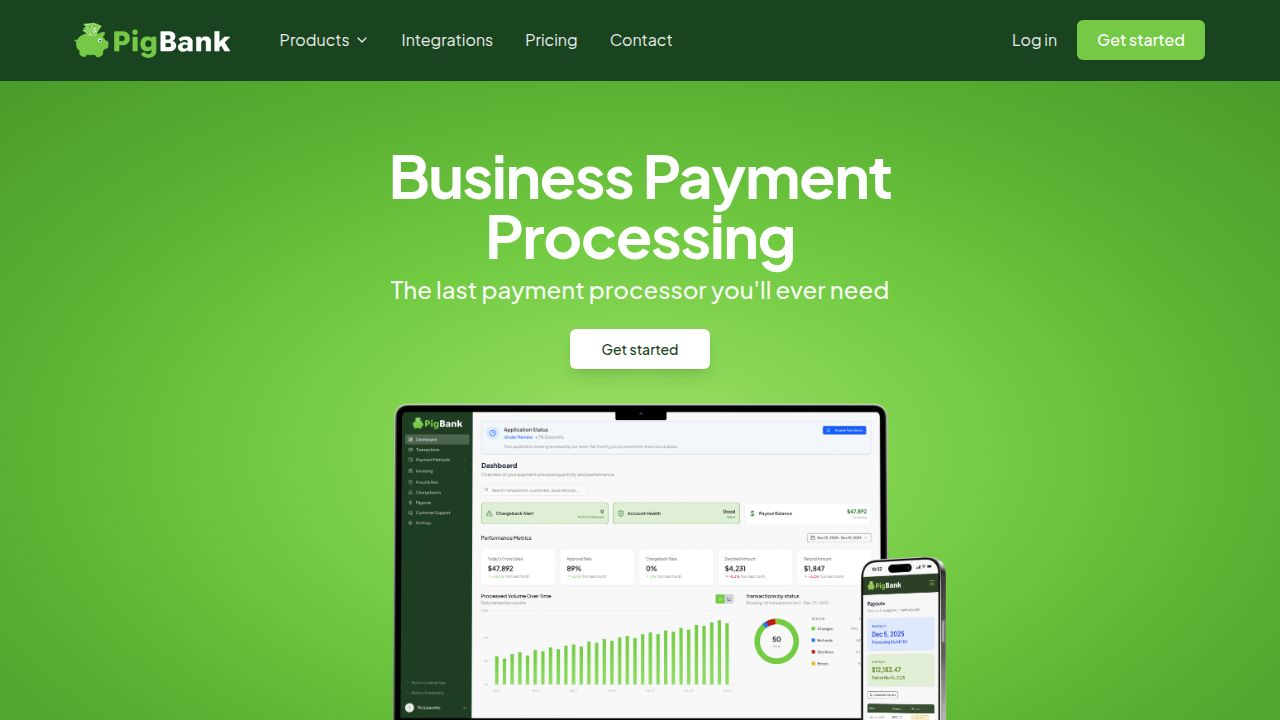
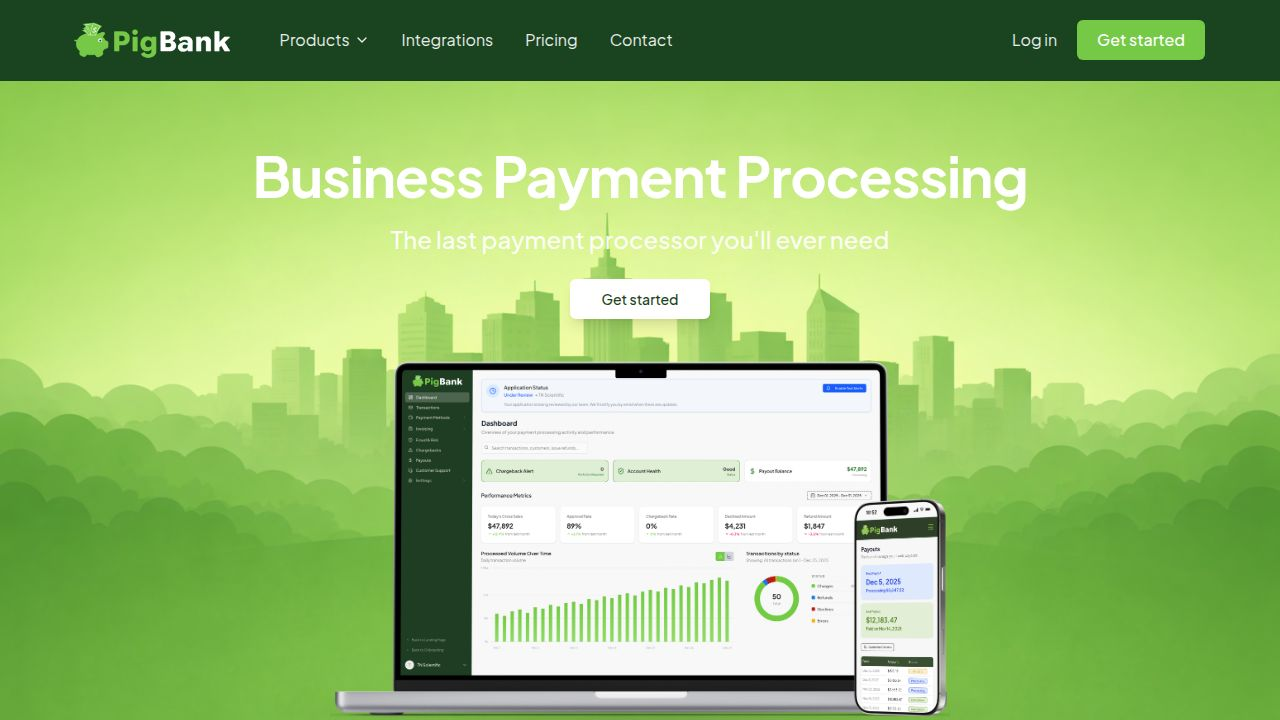
Update landing page background to a new image
Replace the radial gradient background of the hero section with a new image file and adjust background size and position.

Replit-Commit-Author: Agent
Replit-Commit-Session-Id: 96020ddc-f98f-4070-bbd5-d7d39c5acb5d
Replit-Commit-Checkpoint-Type: full_checkpoint
Replit-Commit-Event-Id: 2361b445-0a54-4c5f-9077-b9971a343ade
Replit-Commit-Screenshot-Url: https://storage.googleapis.com/screenshot-production-us-central1/ee567252-c1f1-45c7-bba9-ef8d3212ce6e/96020ddc-f98f-4070-bbd5-d7d39c5acb5d/bDfHgqN
Replit-Helium-Checkpoint-Created: true

diff --git a/client/src/pages/Landing.tsx b/client/src/pages/Landing.tsx
@@ -458,7 +458,9 @@ export default function Landing() {
         <section 
           className="overflow-hidden relative"
           style={{
-            background: 'radial-gradient(ellipse at center, #9ee068 0%, #73cb43 40%, #5ab032 70%, #4a9a2a 100%)'
+            backgroundImage: 'url(/attached_assets/ChatGPT_Image_Dec_29,_2025,_05_19_21_PM_1767050375367.png)',
+            backgroundSize: 'cover',
+            backgroundPosition: 'center bottom'
           }}
         >
           <div className="min-h-[650px] md:min-h-[700px] flex items-center py-12 md:py-16">
